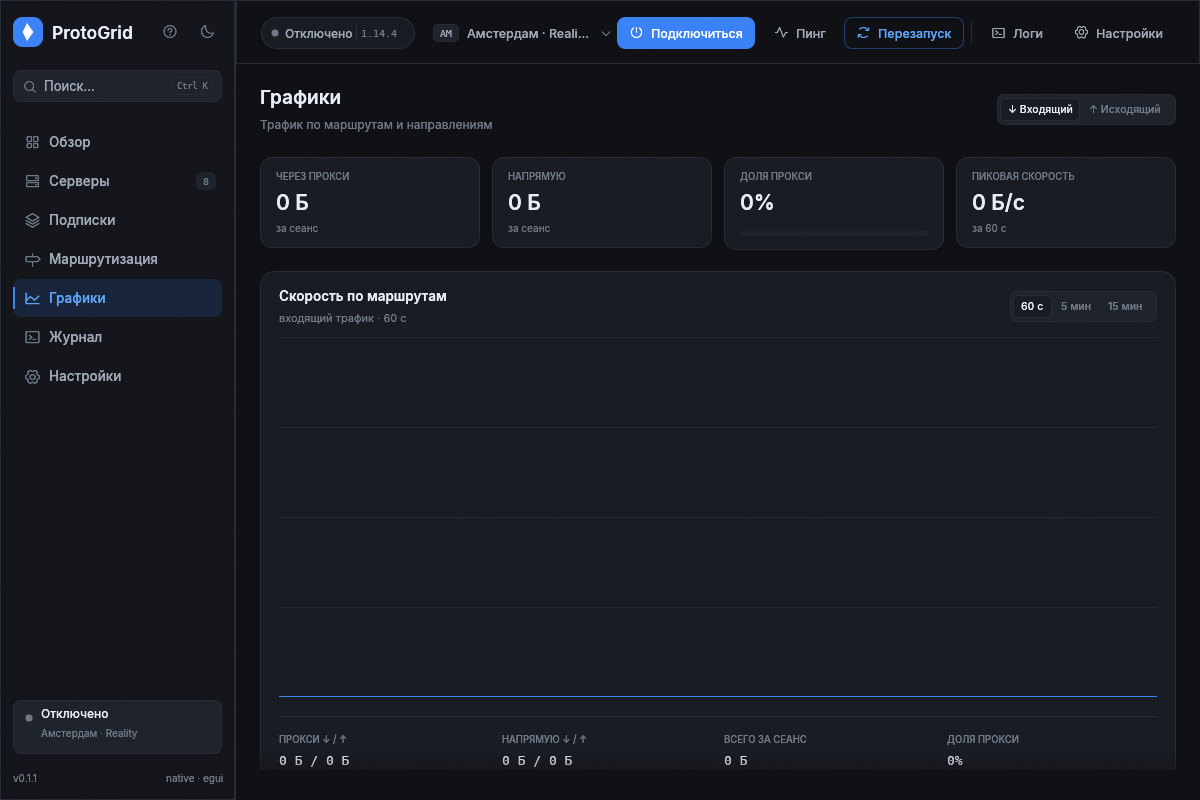
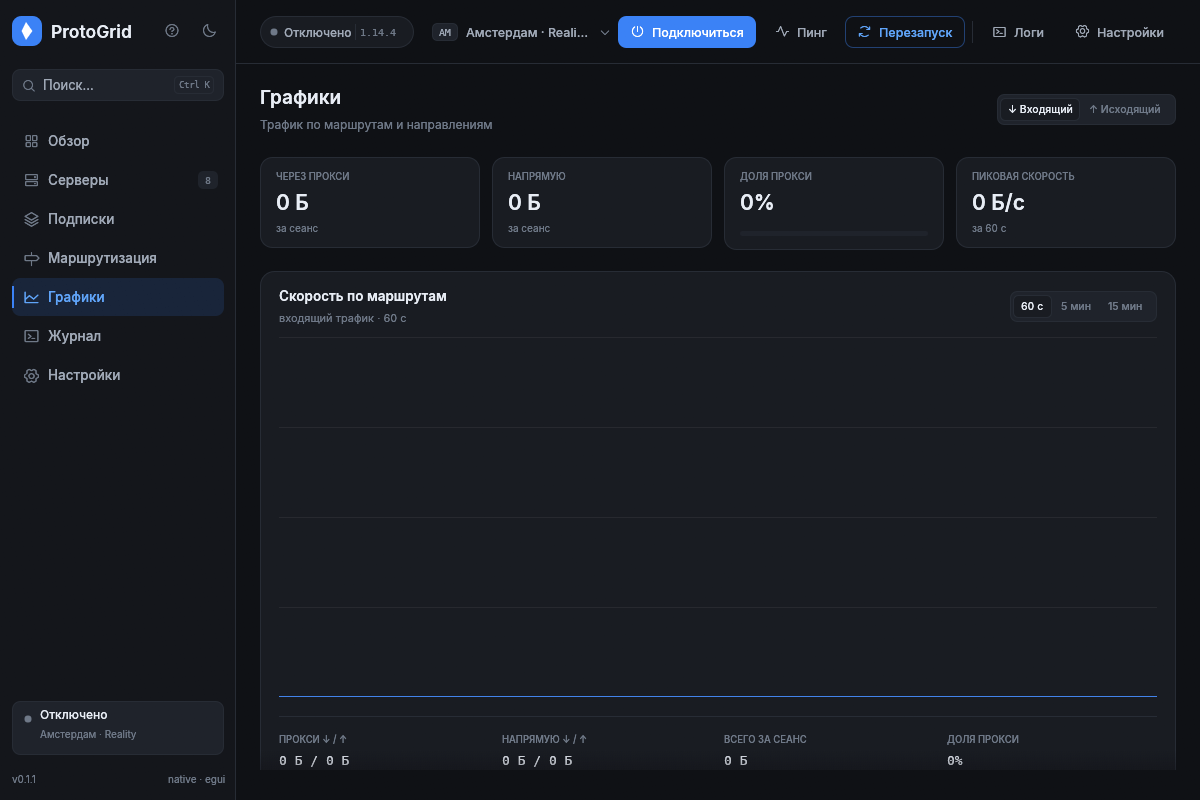
ui: crisp panel and card borders
Remove the full panel strokes and the built-in panel separators: the window no longer gets an outer frame, and the sidebar/topbar edges are now a single pixel. Drop duplicate last-row separators in tables and settings cards, add the missing table header rule, and refresh screenshots.

diff --git a/apps/protogrid-desktop/src/ui.rs b/apps/protogrid-desktop/src/ui.rs
@@ -5871,6 +5871,7 @@ pub fn show(ui: &mut Ui, view: &mut View, snapshot: &Snapshot, engine: &Engine) 
     egui::Panel::left("sidebar")
         .exact_size(if collapsed { 72.0 } else { 236.0 })
         .resizable(false)
+        .show_separator_line(false)
         .frame(Frame::new().fill(p.sidebar).inner_margin(Margin {
             left: sidebar_margin,
             right: sidebar_margin,
@@ -5881,16 +5882,18 @@ pub fn show(ui: &mut Ui, view: &mut View, snapshot: &Snapshot, engine: &Engine) 
             let screen = ui.ctx().input(|input| input.viewport_rect());
             let content = ui.max_rect();
             sidebar(ui, &p, view, snapshot, collapsed);
-            let x = content.right() + sidebar_margin as f32 - 0.5;
-            ui.painter().line_segment(
-                [egui::pos2(x, screen.top()), egui::pos2(x, screen.bottom())],
-                Stroke::new(1.0, p.line),
+            let x = content.right() + sidebar_margin as f32 - 1.0;
+            ui.painter().rect_filled(
+                Rect::from_min_size(egui::pos2(x, screen.top()), Vec2::new(1.0, screen.height())),
+                0,
+                p.line,
             );
         });
 
     egui::Panel::top("topbar")
         .exact_size(64.0)
         .resizable(false)
+        .show_separator_line(false)
         .frame(
             Frame::new()
                 .fill(p.bg)
@@ -5899,13 +5902,14 @@ pub fn show(ui: &mut Ui, view: &mut View, snapshot: &Snapshot, engine: &Engine) 
         .show(ui, |ui| {
             let content = ui.max_rect();
             topbar(ui, &p, view, snapshot, engine);
-            let y = content.bottom() - 0.5;
-            ui.painter().line_segment(
-                [
+            let y = content.bottom() - 1.0;
+            ui.painter().rect_filled(
+                Rect::from_min_size(
                     egui::pos2(content.left() - 24.0, y),
-                    egui::pos2(content.right() + 24.0, y),
-                ],
-                Stroke::new(1.0, p.line),
+                    Vec2::new(content.width() + 48.0, 1.0),
+                ),
+                0,
+                p.line,
             );
         });
 
